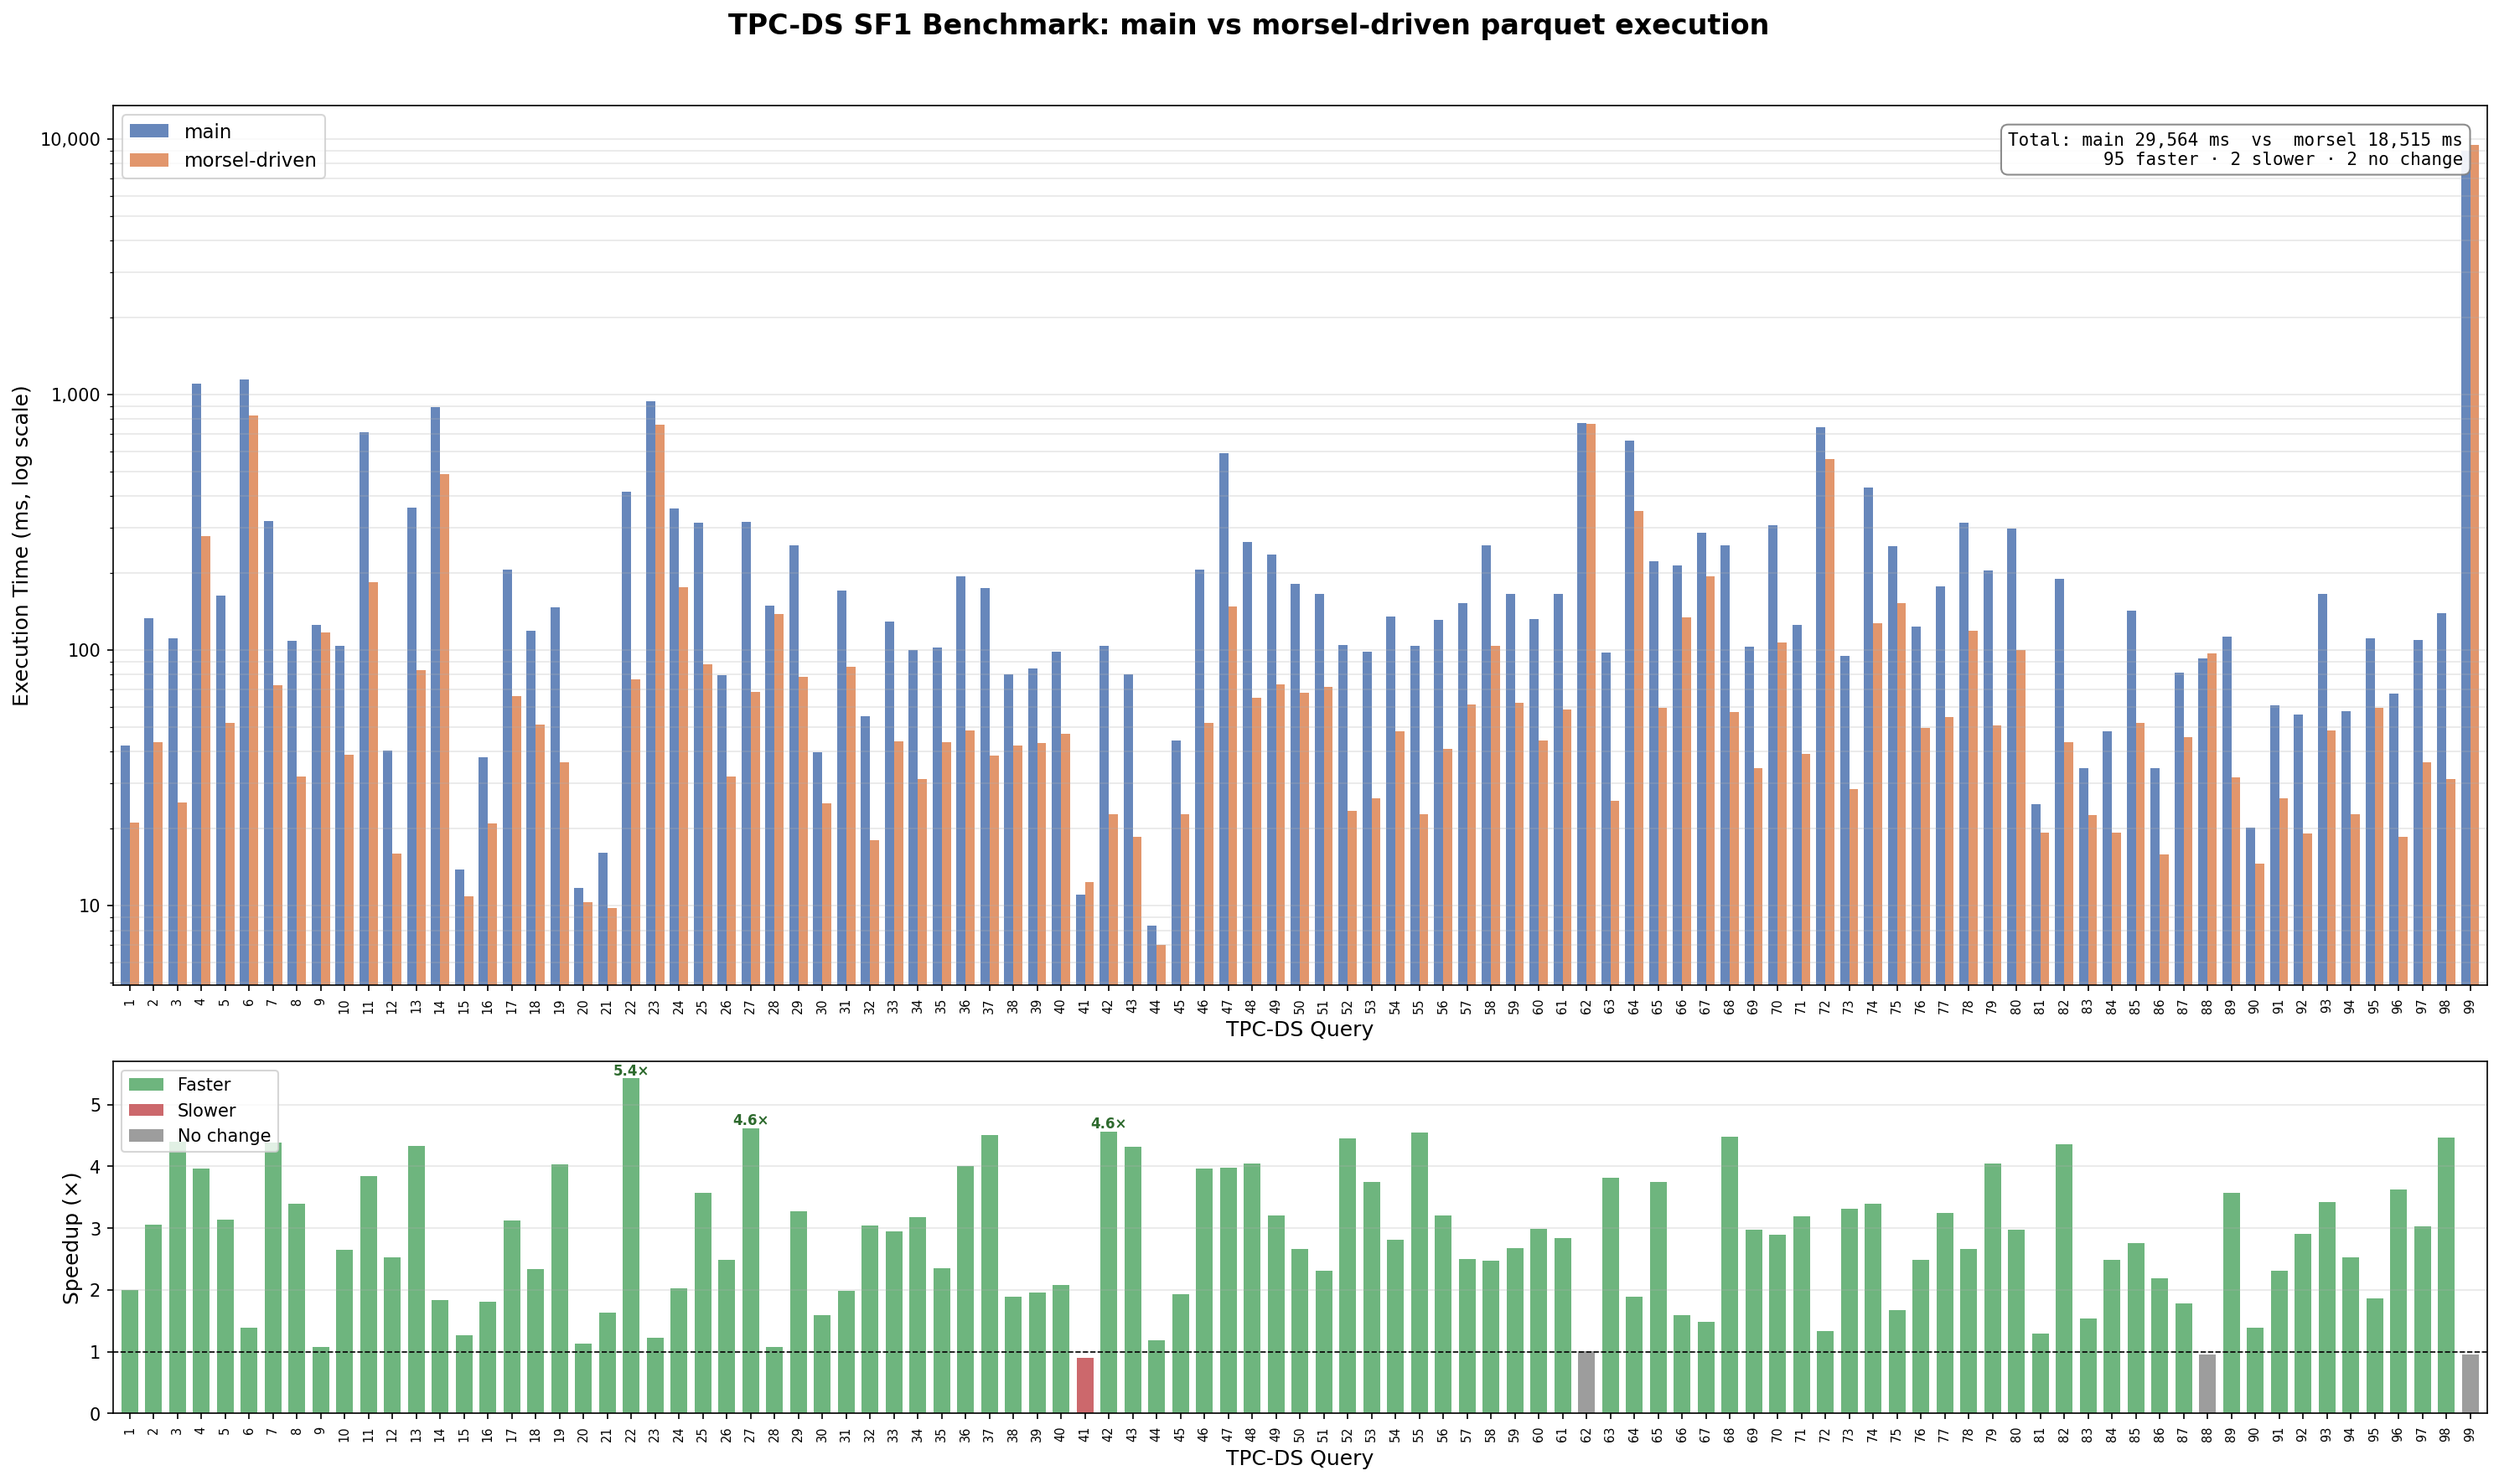
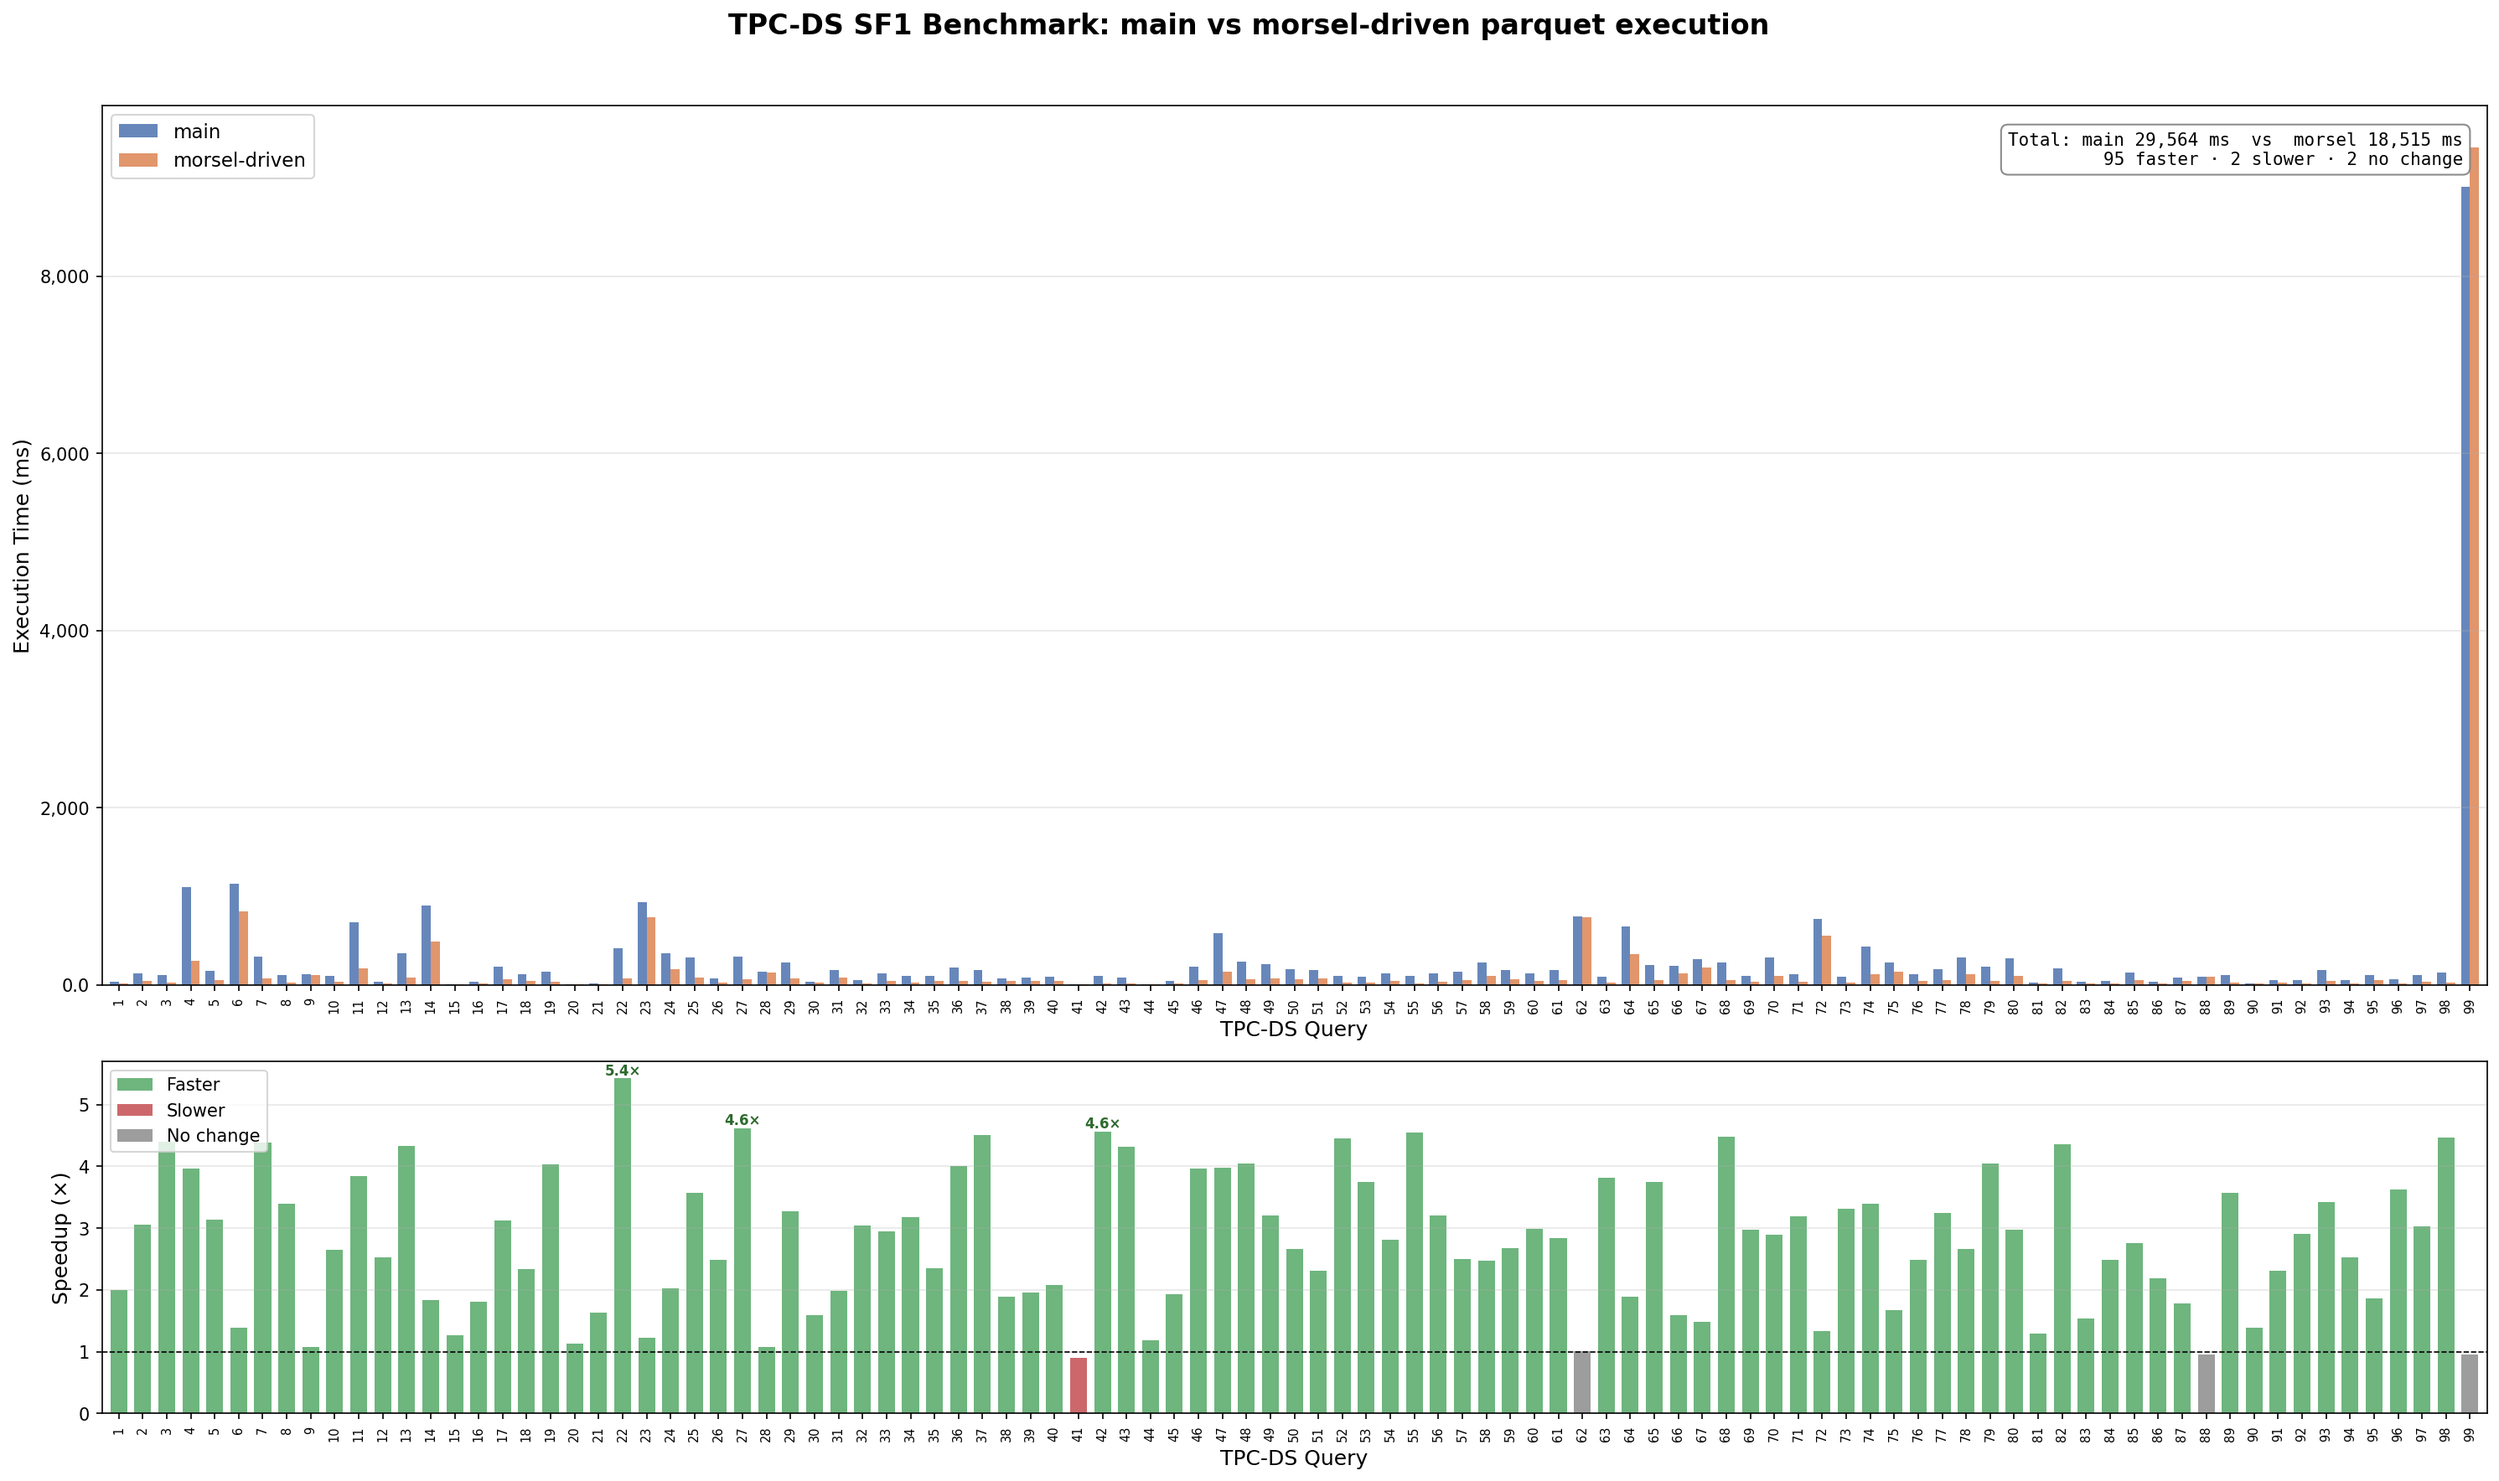
Switch benchmark chart from log scale to linear scale
https://claude.ai/code/session_01XdkCBVpwBHtBzJopMURydP

diff --git a/tpcds_benchmark_chart.py b/tpcds_benchmark_chart.py
@@ -48,15 +48,14 @@ width = 0.38
 bars1 = ax1.bar(x - width/2, main_ms, width, label='main', color='#4C72B0', alpha=0.85)
 bars2 = ax1.bar(x + width/2, morsel_ms, width, label='morsel-driven', color='#DD8452', alpha=0.85)
 
-ax1.set_yscale('log')
-ax1.set_ylabel('Execution Time (ms, log scale)', fontsize=12)
+ax1.set_ylabel('Execution Time (ms)', fontsize=12)
 ax1.set_xticks(x)
 ax1.set_xticklabels([str(q) for q in queries], fontsize=7, rotation=90)
 ax1.set_xlabel('TPC-DS Query', fontsize=12)
 ax1.legend(fontsize=11, loc='upper left')
-ax1.grid(axis='y', alpha=0.3, which='both')
+ax1.grid(axis='y', alpha=0.3)
 ax1.set_xlim(-0.7, len(queries) - 0.3)
-ax1.yaxis.set_major_formatter(ticker.FuncFormatter(lambda v, _: f'{v:,.0f}'))
+ax1.yaxis.set_major_formatter(ticker.FuncFormatter(lambda v, _: f'{v:,.0f}' if v >= 1 else f'{v:.1f}'))
 
 # Summary annotation
 ax1.annotate(
